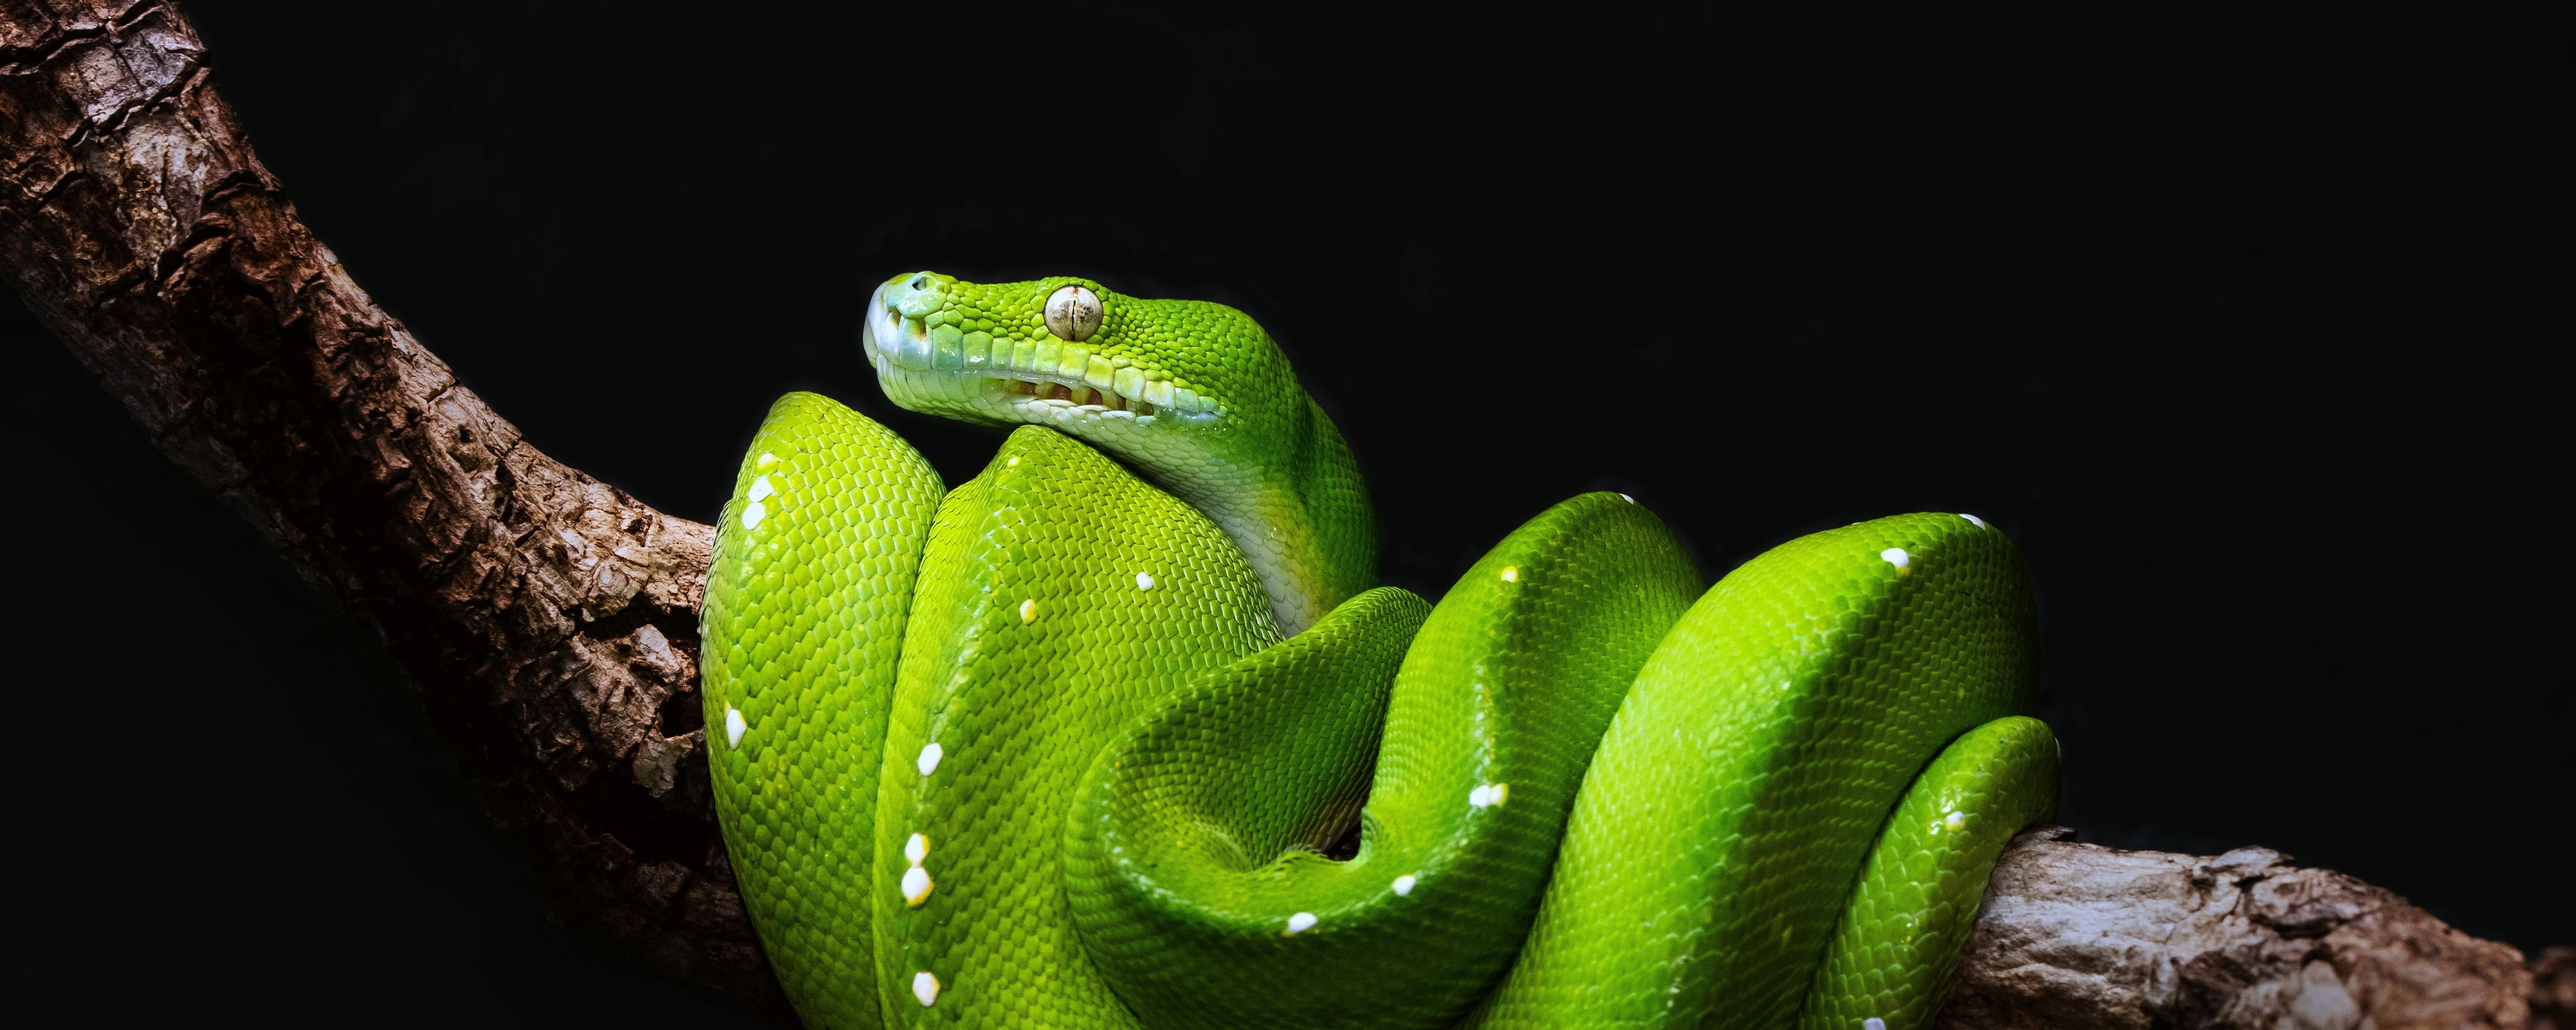
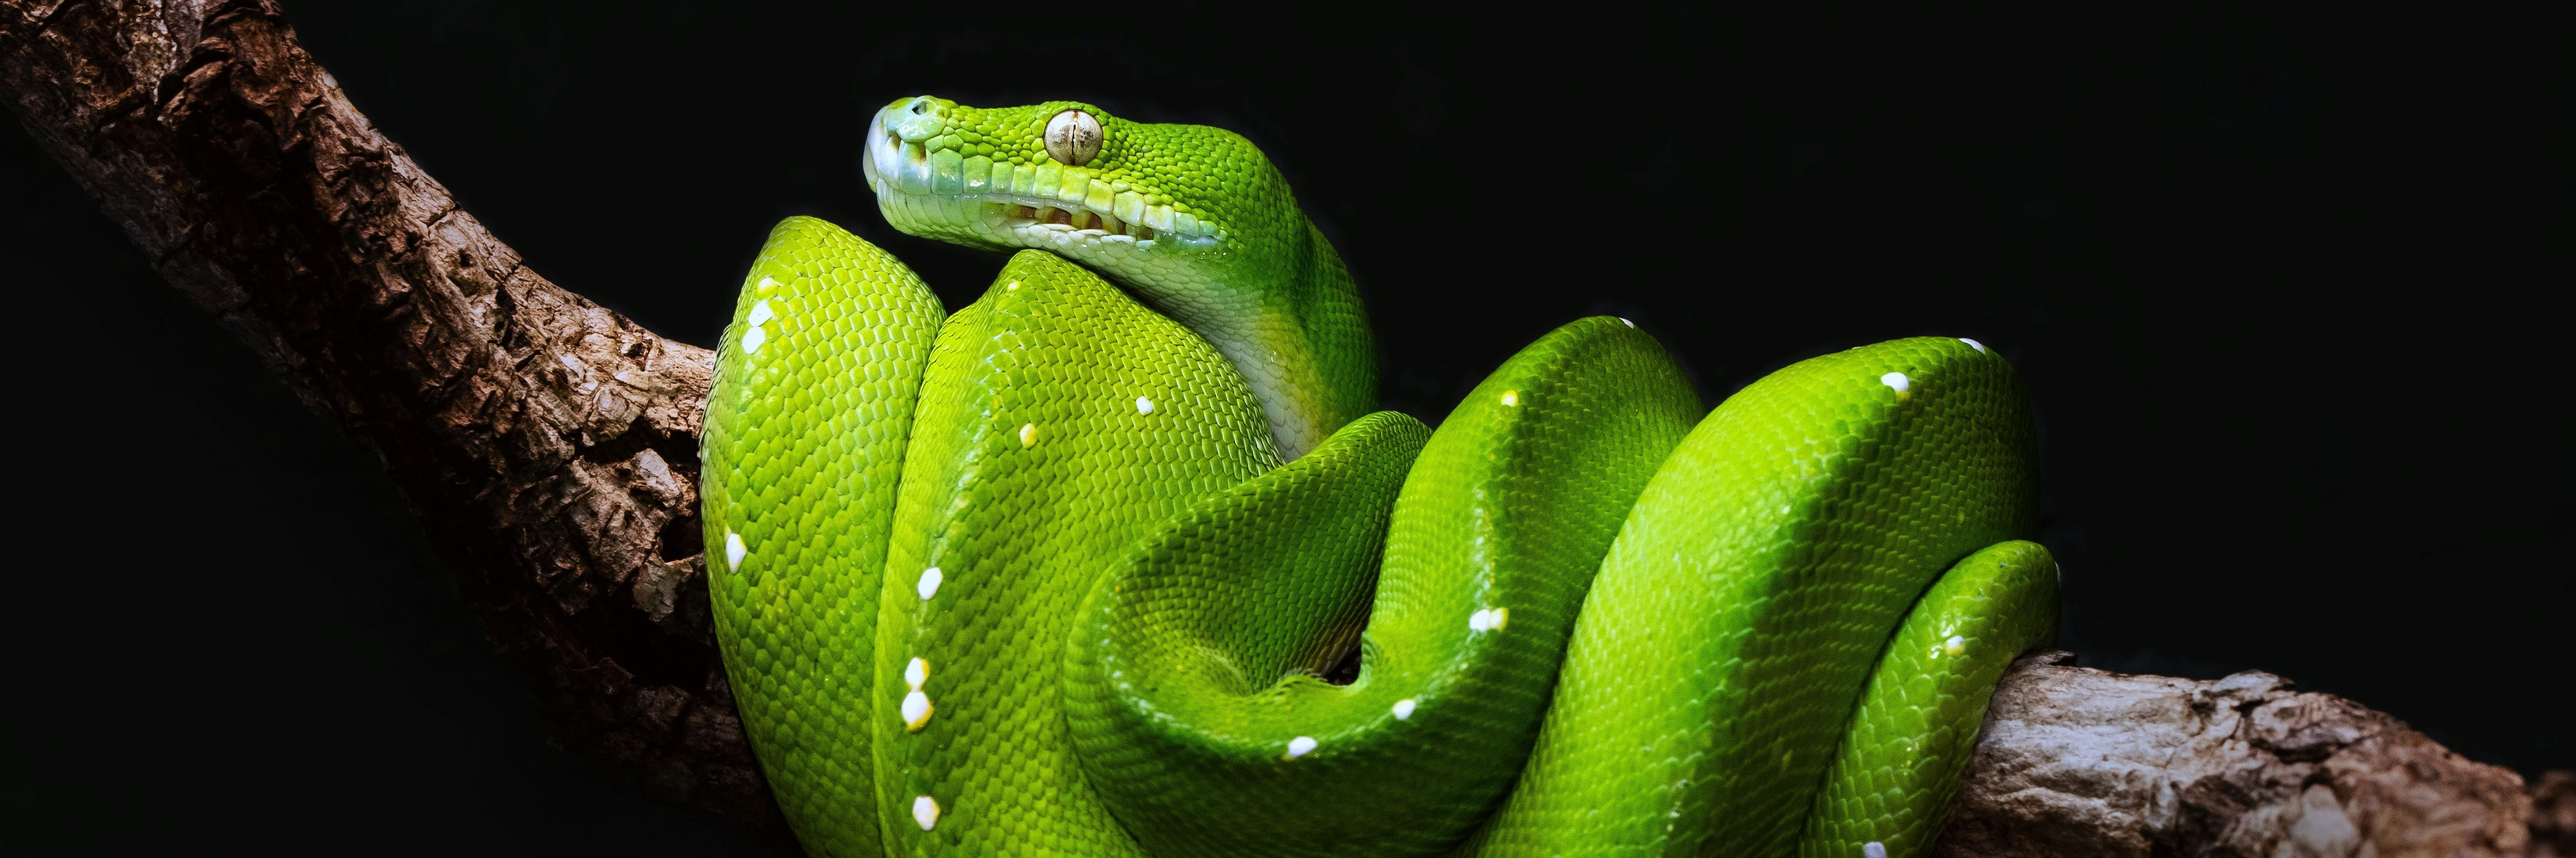
Different Aspect Ratio for Cropping Images

diff --git a/build_utils/crop_feature.py b/build_utils/crop_feature.py
@@ -15,7 +15,7 @@ from pathlib import Path
 import numpy as np
 from PIL import Image
 
-ASPECT_RATIO = 2.5  # width / height
+ASPECT_RATIO = 3  # width / height
 SEARCH_ROOT = Path(__file__).parent.parent / "src" / "content"
 SLIDE_STEP = 0.02  # Fraction of image size. Smaller is slower but more accurate.
 
@@ -114,8 +114,7 @@ def entropy_crop_to_aspect(im, aspect_ratio, step=SLIDE_STEP, debug=False):
 def process_image(im_path):
     out_path = im_path.with_name(f"{im_path.stem}_crop{im_path.suffix}")
     if out_path.exists():
-        print(f"Skipping {im_path.name}: cropped variant already exists.")
-        return
+        print(f"Overwriting {im_path.name}: cropped variant already exists.")
     try:
         with Image.open(im_path) as im:
             if im.mode != 'RGB' and im.mode != 'L':
